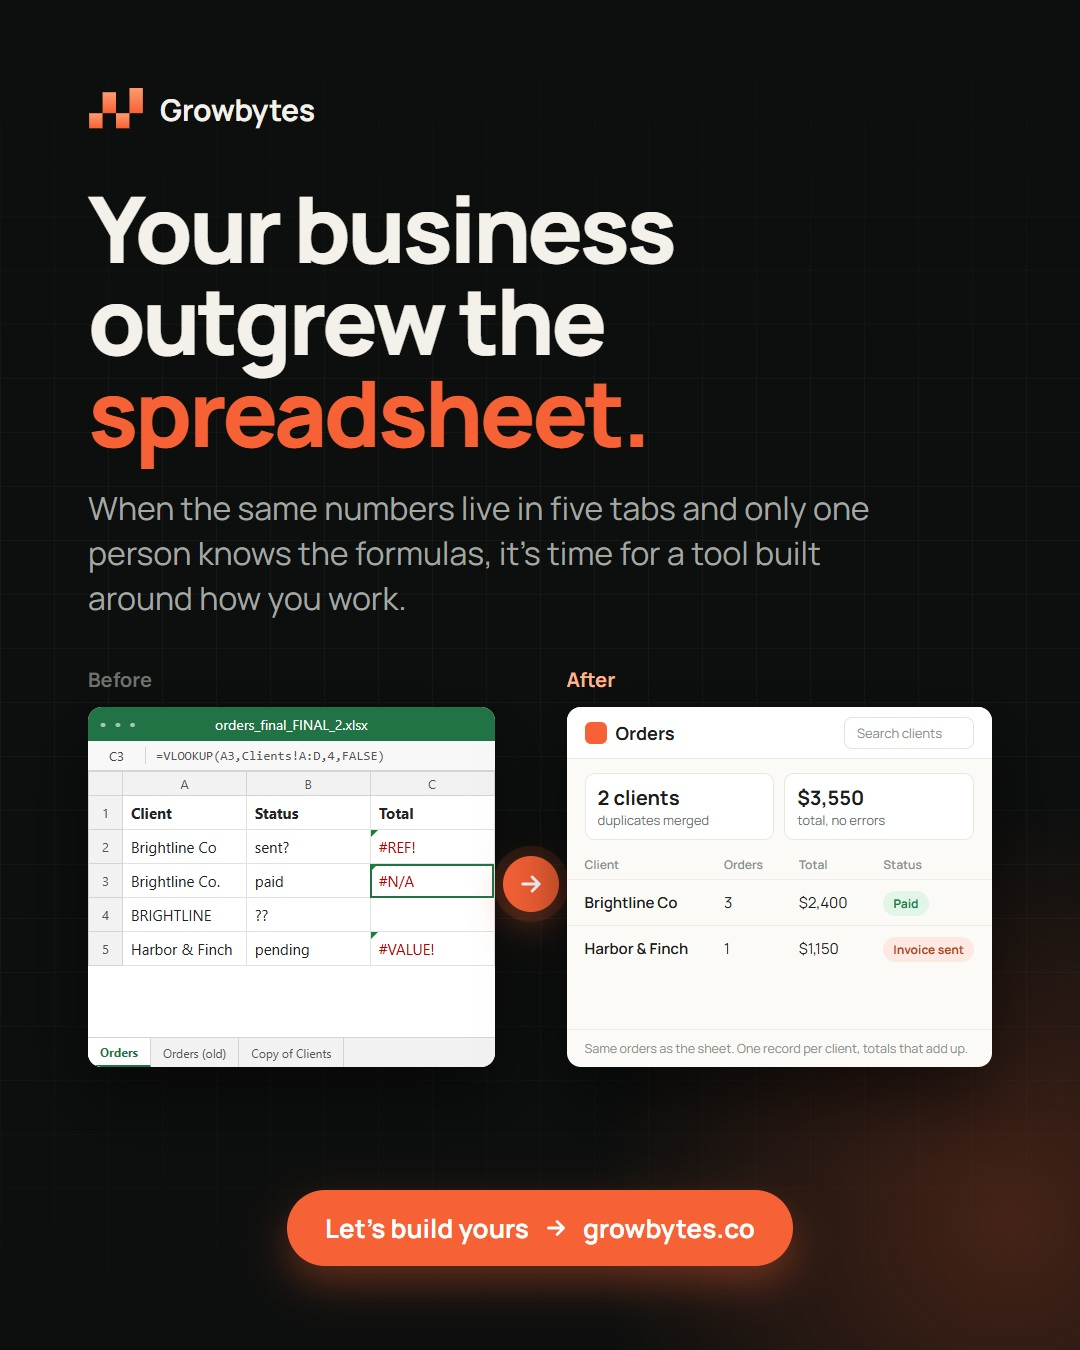
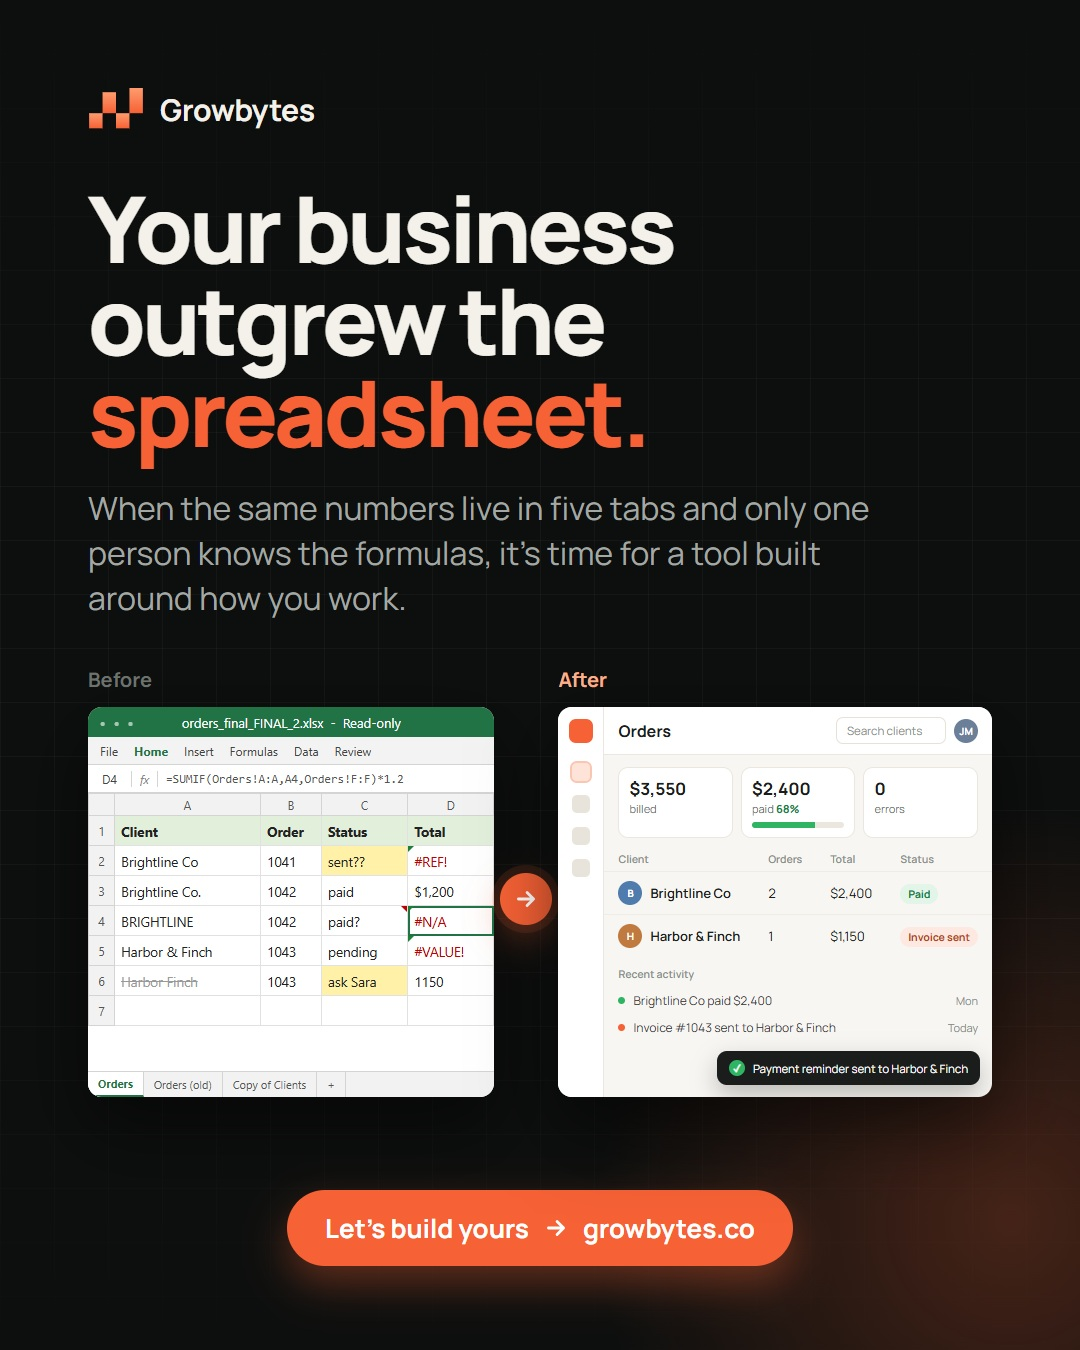
Social: realistic Excel window and a fuller after-app screen

diff --git a/brand/social/src/outgrew-spreadsheet.html b/brand/social/src/outgrew-spreadsheet.html
@@ -4,7 +4,7 @@
 <meta charset="utf-8">
 <link href="https://fonts.googleapis.com/css2?family=Manrope:wght@400;500;600;700;800&display=swap" rel="stylesheet">
 <style>
-  :root { --night:#0d0f0e; --ink:#f4f1ea; --muted:#a3a8a4; --dim:#6c726e; --line:#262a28; --orange:#f66135; --peach:#ffb38f; --red:#ff8a8a; --green:#8fd6a8; }
+  :root { --night:#0d0f0e; --ink:#f4f1ea; --muted:#a3a8a4; --dim:#6c726e; --line:#262a28; --orange:#f66135; --peach:#ffb38f; }
   * { box-sizing:border-box; margin:0; padding:0; }
   html,body { width:1080px; height:1350px; }
   body { font-family:Manrope, sans-serif; background:var(--night); color:var(--ink); overflow:hidden; position:relative; }
@@ -13,63 +13,84 @@
   .grid { position:absolute; inset:0; background-image:linear-gradient(rgba(255,255,255,.03) 1px, transparent 1px), linear-gradient(90deg, rgba(255,255,255,.03) 1px, transparent 1px);
     background-size:54px 54px; mask-image:linear-gradient(180deg, transparent, #000 30%, #000 70%, transparent); }
   .wrap { position:absolute; inset:0; padding:88px 88px 84px; display:flex; flex-direction:column; }
-  .top { display:flex; align-items:center; justify-content:space-between; }
   .brand { display:flex; align-items:center; gap:16px; font-weight:700; font-size:30px; letter-spacing:-.3px; }
-  .site { font-size:24px; color:var(--muted); font-weight:600; }
   h1 { margin-top:52px; font-size:92px; line-height:1.0; font-weight:800; letter-spacing:-3.5px; }
   h1 span { color:var(--orange); }
   .lead { margin-top:28px; font-size:32px; line-height:1.4; color:var(--muted); max-width:820px; }
 
-  .stage { margin-top:46px; display:grid; grid-template-columns:1fr 72px 1fr; align-items:center; }
+  .stage { margin-top:46px; display:grid; grid-template-columns:1fr 64px 1fr; align-items:center; }
   .label { font-size:20px; font-weight:700; margin-bottom:14px; }
   .label.before { color:var(--dim); }
   .label.after { color:var(--peach); }
-  .card { border-radius:14px; overflow:hidden; height:360px; display:flex; flex-direction:column; box-shadow:0 30px 70px rgba(0,0,0,.55); }
+  .card { border-radius:14px; overflow:hidden; height:390px; display:flex; flex-direction:column; box-shadow:0 30px 70px rgba(0,0,0,.55); }
 
   /* Before: a familiar desktop spreadsheet */
   .xl { background:#fff; font-family:"Segoe UI", Arial, sans-serif; color:#222; }
-  .xl .title { height:34px; background:#217346; color:#fff; font-size:14px; display:flex; align-items:center; justify-content:center; position:relative; }
-  .xl .title:before { content:"● ● ●"; position:absolute; left:12px; font-size:10px; letter-spacing:3px; opacity:.6; }
-  .xl .fx { height:30px; border-bottom:1px solid #d4d4d4; display:flex; align-items:center; font-size:13px; color:#444; background:#f8f8f8; }
-  .xl .fx b { width:58px; text-align:center; border-right:1px solid #d4d4d4; font-weight:400; }
-  .xl .fx span { padding-left:10px; font-family:Consolas, monospace; color:#555; }
-  .xl table { border-collapse:collapse; width:100%; font-size:15px; table-layout:fixed; }
-  .xl th { background:#f2f2f2; color:#555; font-weight:400; font-size:13px; height:24px; border:1px solid #d4d4d4; }
-  .xl th:first-child { width:34px; }
-  .xl td { height:34px; border:1px solid #e1e1e1; padding:0 8px; white-space:nowrap; overflow:hidden; }
-  .xl td.n { background:#f2f2f2; color:#555; text-align:center; font-size:13px; border-color:#d4d4d4; }
-  .xl .h { font-weight:700; }
+  .xl .title { height:30px; background:#217346; color:#fff; font-size:13px; display:flex; align-items:center; justify-content:center; position:relative; flex-shrink:0; }
+  .xl .title:before { content:"● ● ●"; position:absolute; left:12px; font-size:9px; letter-spacing:3px; opacity:.6; }
+  .xl .ribbon { height:28px; background:#f3f3f3; display:flex; gap:16px; padding:0 12px; align-items:center; font-size:12px; color:#444; border-bottom:1px solid #d4d4d4; flex-shrink:0; }
+  .xl .ribbon .on { color:#217346; font-weight:700; }
+  .xl .fx { height:28px; border-bottom:1px solid #d4d4d4; display:flex; align-items:center; font-size:12px; color:#444; flex-shrink:0; }
+  .xl .fx b { width:44px; text-align:center; border-right:1px solid #d4d4d4; font-weight:400; }
+  .xl .fx i { color:#888; padding:0 8px; border-right:1px solid #d4d4d4; }
+  .xl .fx span { padding-left:8px; font-family:Consolas, monospace; color:#555; white-space:nowrap; overflow:hidden; }
+  .xl table { border-collapse:collapse; width:100%; font-size:13.5px; table-layout:fixed; }
+  .xl th { background:#f2f2f2; color:#555; font-weight:400; font-size:12px; height:22px; border:1px solid #d4d4d4; }
+  .xl th:first-child { width:26px; }
+  .xl th:nth-child(2) { width:36%; }
+  .xl th:nth-child(3) { width:15%; }
+  .xl td { height:30px; border:1px solid #e1e1e1; padding:0 6px; white-space:nowrap; overflow:hidden; }
+  .xl td.n { background:#f2f2f2; color:#555; text-align:center; font-size:12px; border-color:#d4d4d4; }
+  .xl .h { font-weight:700; background:#e2efda; }
+  .xl .y { background:#fff2a8; }
+  .xl .x { text-decoration:line-through; color:#999; }
   .xl .err { color:#c00000; position:relative; }
-  .xl .err:before { content:""; position:absolute; left:0; top:0; border-top:7px solid #1a7f37; border-right:7px solid transparent; }
+  .xl .err:before { content:""; position:absolute; left:0; top:0; border-top:6px solid #1a7f37; border-right:6px solid transparent; }
   .xl .sel { outline:2px solid #217346; outline-offset:-2px; }
-  .xl .tabs { margin-top:auto; height:30px; background:#f2f2f2; border-top:1px solid #d4d4d4; display:flex; font-size:12px; color:#555; }
-  .xl .tabs span { padding:0 12px; display:flex; align-items:center; border-right:1px solid #d4d4d4; }
+  .xl .c { position:relative; }
+  .xl .c:after { content:""; position:absolute; right:0; top:0; border-top:6px solid #c00000; border-left:6px solid transparent; }
+  .xl .tabs { margin-top:auto; height:26px; background:#f2f2f2; border-top:1px solid #d4d4d4; display:flex; font-size:11px; color:#555; flex-shrink:0; }
+  .xl .tabs span { padding:0 10px; display:flex; align-items:center; border-right:1px solid #d4d4d4; }
   .xl .tabs .on { background:#fff; color:#217346; font-weight:700; border-bottom:2px solid #217346; }
 
-  /* After: a clean light web app */
-  .app { background:#fbfaf7; color:#1b1d1c; }
-  .app .top2 { height:52px; display:flex; align-items:center; justify-content:space-between; padding:0 18px; border-bottom:1px solid #ebe7df; background:#fff; }
-  .app .top2 b { font-size:18px; display:flex; align-items:center; gap:9px; }
-  .app .top2 b:before { content:""; width:22px; height:22px; border-radius:6px; background:var(--orange); }
-  .app .search { font-size:13px; color:#8a8f8b; border:1px solid #e6e2da; border-radius:8px; padding:6px 12px; width:130px; }
-  .app .sum { display:grid; grid-template-columns:1fr 1fr; gap:10px; padding:14px 18px 6px; }
-  .app .sum div { background:#fff; border:1px solid #ebe7df; border-radius:10px; padding:10px 12px; font-size:13px; color:#6b706c; }
-  .app .sum strong { display:block; font-size:20px; color:#1b1d1c; }
-  .app table { border-collapse:collapse; width:100%; font-size:15px; }
-  .app th { text-align:left; font-size:12px; font-weight:600; color:#8a8f8b; padding:10px 18px 6px; }
-  .app td { padding:12px 18px; white-space:nowrap; border-top:1px solid #efece5; }
-  .app td:first-child { font-weight:600; }
-  .pill { font-size:12px; font-weight:700; padding:4px 10px; border-radius:999px; }
+  /* After: a polished light web app */
+  .app { background:#f7f6f2; color:#1b1d1c; flex-direction:row; position:relative; }
+  .side { width:46px; background:#fff; border-right:1px solid #ebe7df; display:flex; flex-direction:column; align-items:center; gap:14px; padding-top:12px; flex-shrink:0; }
+  .side .logo { width:24px; height:24px; border-radius:7px; background:var(--orange); margin-bottom:6px; }
+  .side i { width:18px; height:18px; border-radius:5px; background:#e8e4dc; }
+  .side i.on { background:#fde3d8; outline:2px solid #fbc6b1; }
+  .main { flex:1; display:flex; flex-direction:column; min-width:0; }
+  .top2 { height:48px; display:flex; align-items:center; justify-content:space-between; padding:0 14px; border-bottom:1px solid #ebe7df; background:#fff; flex-shrink:0; }
+  .top2 b { font-size:16px; }
+  .top2 .r { display:flex; gap:8px; align-items:center; }
+  .search { font-size:11.5px; color:#8a8f8b; border:1px solid #e6e2da; border-radius:7px; padding:5px 10px; width:110px; }
+  .av { width:24px; height:24px; border-radius:50%; display:grid; place-items:center; font-size:10px; font-weight:700; color:#fff; flex-shrink:0; }
+  .sum { display:grid; grid-template-columns:repeat(3,1fr); gap:8px; padding:12px 14px 4px; }
+  .sum > div { background:#fff; border:1px solid #ebe7df; border-radius:10px; padding:9px 10px; font-size:11px; color:#6b706c; }
+  .sum strong { display:block; font-size:17px; color:#1b1d1c; margin-bottom:1px; }
+  .sum em { font-style:normal; color:#17803d; font-weight:700; }
+  .bar2 { height:6px; border-radius:99px; background:#ebe7df; margin-top:6px; overflow:hidden; }
+  .bar2 span { display:block; height:100%; width:68%; background:#2fb463; }
+  .app table { border-collapse:collapse; width:100%; font-size:13px; }
+  .app th { text-align:left; font-size:10.5px; font-weight:600; color:#8a8f8b; padding:10px 14px 5px; }
+  .app td { padding:9px 14px; border-top:1px solid #efece5; white-space:nowrap; }
+  .who { display:flex; align-items:center; gap:8px; font-weight:600; }
+  .pill { font-size:10.5px; font-weight:700; padding:3px 8px; border-radius:999px; }
   .paid { color:#17803d; background:#e3f4e8; }
   .sent { color:#b2441f; background:#fde9e1; }
-  .app .note { margin-top:auto; padding:10px 18px; font-size:12.5px; color:#8a8f8b; border-top:1px solid #efece5; }
+  .act { padding:10px 14px 0; font-size:12px; color:#3c403e; }
+  .act .t { display:block; font-size:10.5px; font-weight:600; color:#8a8f8b; margin-bottom:6px; }
+  .act div { display:flex; align-items:center; gap:8px; padding:5px 0; }
+  .act i { width:7px; height:7px; border-radius:50%; }
+  .act .g { background:#2fb463; } .act .o { background:var(--orange); }
+  .act small { margin-left:auto; color:#8a8f8b; font-size:11px; }
+  .toast { position:absolute; right:12px; bottom:12px; background:#1b1d1c; color:#fff; font-size:11.5px; padding:9px 12px; border-radius:10px; display:flex; gap:8px; align-items:center; box-shadow:0 10px 24px rgba(0,0,0,.25); }
+  .toast b { width:16px; height:16px; border-radius:50%; background:#2fb463; display:grid; place-items:center; font-size:10px; }
 
   .link { display:grid; place-items:center; padding-top:34px; }
-  .link span { width:56px; height:56px; border-radius:50%; background:var(--orange); display:grid; place-items:center; box-shadow:0 0 0 10px rgba(246,97,53,.12), 0 14px 36px rgba(246,97,53,.35); }
+  .link span { width:52px; height:52px; border-radius:50%; background:var(--orange); display:grid; place-items:center; box-shadow:0 0 0 8px rgba(246,97,53,.12), 0 14px 36px rgba(246,97,53,.35); }
 
-  .foot { margin-top:auto; text-align:center; display:flex; flex-direction:column; align-items:center; gap:18px; }
-  .foot p { font-size:26px; color:var(--muted); }
-  .foot p b { color:var(--ink); font-weight:700; }
+  .foot { margin-top:auto; display:flex; justify-content:center; }
   .cta { display:inline-flex; align-items:center; gap:14px; font-size:26px; font-weight:700; color:#fff; background:var(--orange); padding:20px 38px; border-radius:999px; box-shadow:0 18px 40px rgba(246,97,53,.35); }
 </style>
 </head>
@@ -77,13 +98,10 @@
   <div class="grid"></div>
   <div class="glow"></div>
   <div class="wrap">
-    <div class="top">
-      <div class="brand">
-        <svg width="56" height="42" viewBox="0 0 16 12.5"><defs><linearGradient id="g" x1="0" x2="0" y1="0" y2="1"><stop offset="0" stop-color="#FF9C6E"/><stop offset="1" stop-color="#F66135"/></linearGradient></defs>
-          <rect x="0" y="7.5" width="4" height="4.5" fill="url(#g)"/><rect x="4" y="1.25" width="4" height="6.25" fill="url(#g)"/><rect x="8" y="7.5" width="4" height="4.5" fill="url(#g)"/><rect x="12" y="0" width="4" height="7.5" fill="url(#g)"/></svg>
-        Growbytes
-      </div>
-      
+    <div class="brand">
+      <svg width="56" height="42" viewBox="0 0 16 12.5"><defs><linearGradient id="g" x1="0" x2="0" y1="0" y2="1"><stop offset="0" stop-color="#FF9C6E"/><stop offset="1" stop-color="#F66135"/></linearGradient></defs>
+        <rect x="0" y="7.5" width="4" height="4.5" fill="url(#g)"/><rect x="4" y="1.25" width="4" height="6.25" fill="url(#g)"/><rect x="8" y="7.5" width="4" height="4.5" fill="url(#g)"/><rect x="12" y="0" width="4" height="7.5" fill="url(#g)"/></svg>
+      Growbytes
     </div>
 
     <h1>Your business<br>outgrew the<br><span>spreadsheet.</span></h1>
@@ -93,40 +111,52 @@
       <div>
         <div class="label before">Before</div>
         <div class="card xl">
-          <div class="title">orders_final_FINAL_2.xlsx</div>
-          <div class="fx"><b>C3</b><span>=VLOOKUP(A3,Clients!A:D,4,FALSE)</span></div>
+          <div class="title">orders_final_FINAL_2.xlsx &nbsp;-&nbsp; Read-only</div>
+          <div class="ribbon"><span>File</span><span class="on">Home</span><span>Insert</span><span>Formulas</span><span>Data</span><span>Review</span></div>
+          <div class="fx"><b>D4</b><i>fx</i><span>=SUMIF(Orders!A:A,A4,Orders!F:F)*1.2</span></div>
           <table>
-            <tr><th></th><th>A</th><th>B</th><th>C</th></tr>
-            <tr><td class="n">1</td><td class="h">Client</td><td class="h">Status</td><td class="h">Total</td></tr>
-            <tr><td class="n">2</td><td>Brightline Co</td><td>sent?</td><td class="err">#REF!</td></tr>
-            <tr><td class="n">3</td><td>Brightline Co.</td><td>paid</td><td class="err sel">#N/A</td></tr>
-            <tr><td class="n">4</td><td>BRIGHTLINE</td><td>??</td><td></td></tr>
-            <tr><td class="n">5</td><td>Harbor &amp; Finch</td><td>pending</td><td class="err">#VALUE!</td></tr>
-            
+            <tr><th></th><th>A</th><th>B</th><th>C</th><th>D</th></tr>
+            <tr><td class="n">1</td><td class="h">Client</td><td class="h">Order</td><td class="h">Status</td><td class="h">Total</td></tr>
+            <tr><td class="n">2</td><td>Brightline Co</td><td>1041</td><td class="y">sent??</td><td class="err">#REF!</td></tr>
+            <tr><td class="n">3</td><td>Brightline Co.</td><td>1042</td><td>paid</td><td>$1,200</td></tr>
+            <tr><td class="n">4</td><td>BRIGHTLINE</td><td>1042</td><td class="c">paid?</td><td class="err sel">#N/A</td></tr>
+            <tr><td class="n">5</td><td>Harbor &amp; Finch</td><td>1043</td><td>pending</td><td class="err">#VALUE!</td></tr>
+            <tr><td class="n">6</td><td class="x">Harbor Finch</td><td>1043</td><td class="y">ask Sara</td><td>1150</td></tr>
+            <tr><td class="n">7</td><td></td><td></td><td></td><td></td></tr>
           </table>
-          <div class="tabs"><span class="on">Orders</span><span>Orders (old)</span><span>Copy of Clients</span></div>
+          <div class="tabs"><span class="on">Orders</span><span>Orders (old)</span><span>Copy of Clients</span><span>+</span></div>
         </div>
       </div>
 
-      <div class="link"><span><svg width="28" height="28" viewBox="0 0 24 24" fill="none" stroke="#fff" stroke-width="2.6" stroke-linecap="round" stroke-linejoin="round"><path d="M5 12h14M13 6l6 6-6 6"/></svg></span></div>
+      <div class="link"><span><svg width="26" height="26" viewBox="0 0 24 24" fill="none" stroke="#fff" stroke-width="2.6" stroke-linecap="round" stroke-linejoin="round"><path d="M5 12h14M13 6l6 6-6 6"/></svg></span></div>
 
       <div>
         <div class="label after">After</div>
         <div class="card app">
-          <div class="top2"><b>Orders</b><span class="search">Search clients</span></div>
-          <div class="sum"><div><strong>2 clients</strong>duplicates merged</div><div><strong>$3,550</strong>total, no errors</div></div>
-          <table>
-            <tr><th>Client</th><th>Orders</th><th>Total</th><th>Status</th></tr>
-            <tr><td>Brightline Co</td><td>3</td><td>$2,400</td><td><span class="pill paid">Paid</span></td></tr>
-            <tr><td>Harbor &amp; Finch</td><td>1</td><td>$1,150</td><td><span class="pill sent">Invoice sent</span></td></tr>
-          </table>
-          <div class="note">Same orders as the sheet. One record per client, totals that add up.</div>
+          <div class="side"><span class="logo"></span><i class="on"></i><i></i><i></i><i></i></div>
+          <div class="main">
+            <div class="top2"><b>Orders</b><span class="r"><span class="search">Search clients</span><span class="av" style="background:#6b7f99">JM</span></span></div>
+            <div class="sum">
+              <div><strong>$3,550</strong>billed</div>
+              <div><strong>$2,400</strong>paid <em>68%</em><div class="bar2"><span></span></div></div>
+              <div><strong>0</strong>errors</div>
+            </div>
+            <table>
+              <tr><th>Client</th><th>Orders</th><th>Total</th><th>Status</th></tr>
+              <tr><td><span class="who"><span class="av" style="background:#4f7cac">B</span>Brightline Co</span></td><td>2</td><td>$2,400</td><td><span class="pill paid">Paid</span></td></tr>
+              <tr><td><span class="who"><span class="av" style="background:#c0793f">H</span>Harbor &amp; Finch</span></td><td>1</td><td>$1,150</td><td><span class="pill sent">Invoice sent</span></td></tr>
+            </table>
+            <div class="act"><span class="t">Recent activity</span>
+              <div><i class="g"></i>Brightline Co paid $2,400<small>Mon</small></div>
+              <div><i class="o"></i>Invoice #1043 sent to Harbor &amp; Finch<small>Today</small></div>
+            </div>
+            <div class="toast"><b>&#10003;</b>Payment reminder sent to Harbor &amp; Finch</div>
+          </div>
         </div>
       </div>
     </div>
 
     <div class="foot">
-      
       <div class="cta">Let&rsquo;s build yours <svg width="26" height="26" viewBox="0 0 24 24" fill="none" stroke="#fff" stroke-width="2.6" stroke-linecap="round" stroke-linejoin="round"><path d="M5 12h14M13 6l6 6-6 6"/></svg> growbytes.co</div>
     </div>
   </div>
